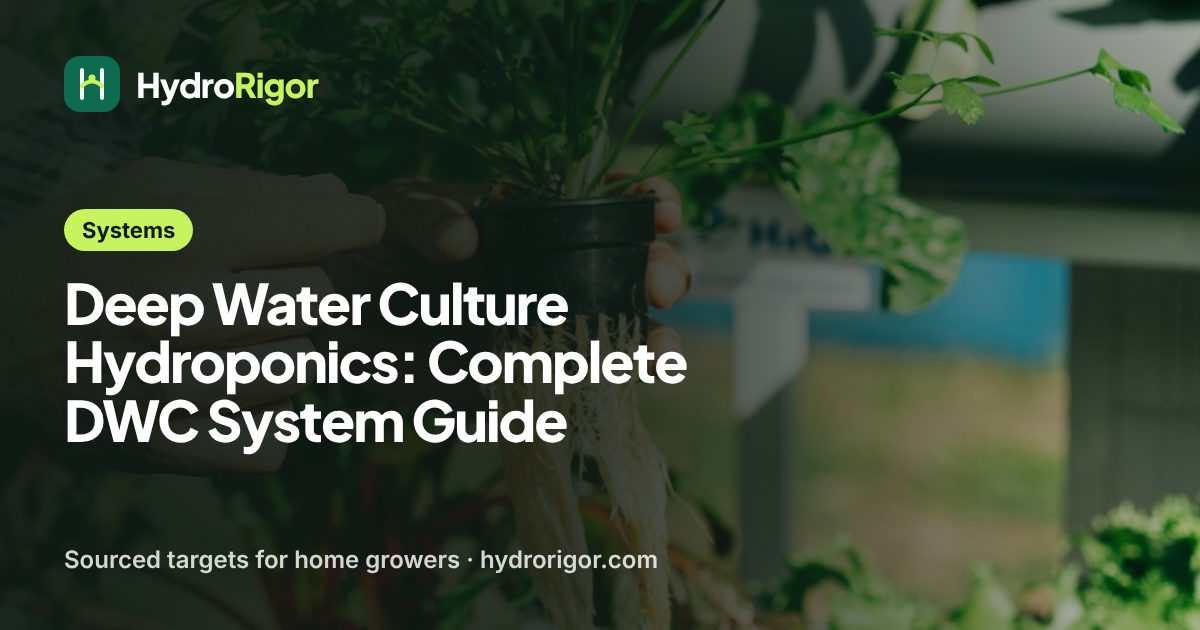
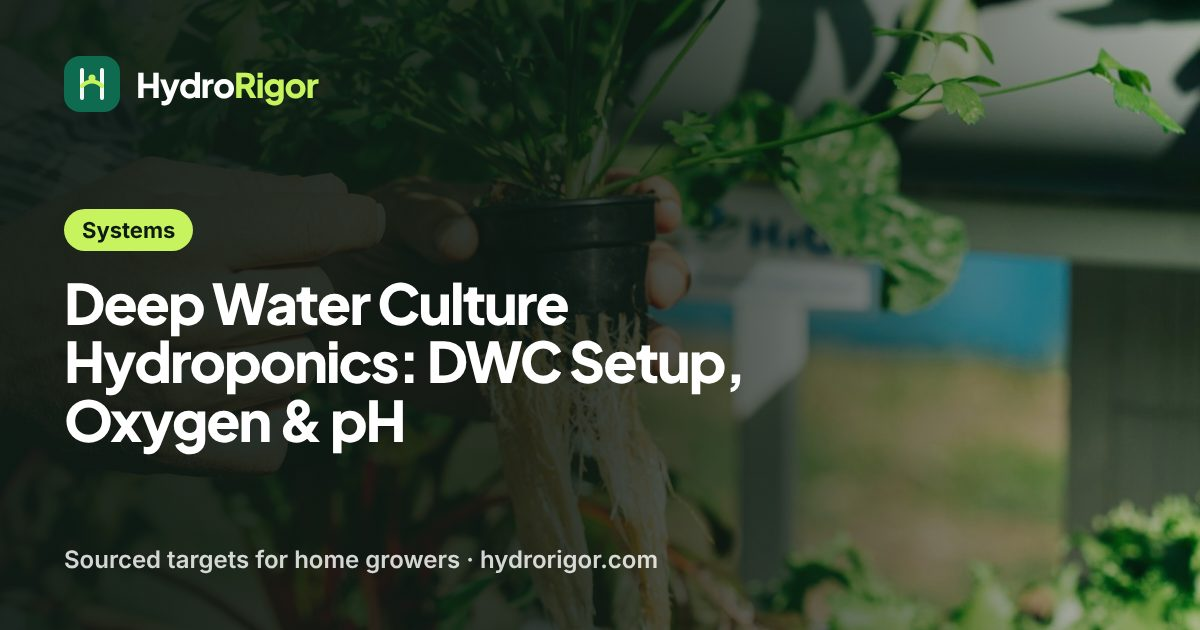
Rebuild the deep water culture hydroponics guide
- New title "Deep Water Culture Hydroponics: DWC Setup, Oxygen & pH" and
  answer-first description; KeyTargets (oxygen 7–10 ppm, solution 65–80 °F,
  pH 5.5–6.2, lettuce EC 1.2–1.8 mS/cm).
- Quick-answer table, how DWC works (raft vs bucket), crop fit, parts list,
  step-by-step setup, weekly routine, light and room temperature, root rot,
  troubleshooting, when DWC is the wrong choice, and FAQ.
- Two original diagrams: labelled DWC tank cross-section; lettuce crop timeline.
- Ten registered sources (Oregon State EM 9455, Virginia Tech SPES-466,
  UF/IFAS HS1422 and Volusia bucket, Kentucky CCD-CP-63, Illinois, Cornell,
  Oklahoma State HLA-6722, Kratky, Missouri); locators updated.
- Share image and pin regenerated; queue item 6 ticked; handoff updated.

Claude-Session: https://claude.ai/code/session_011zSWQuLpvTDkuSZcWCHeDC

Changed region(s): [[0.0308, 0.5429, 0.6167, 0.7238]]

diff --git a/src/data/m06-content.ts b/src/data/m06-content.ts
@@ -21,7 +21,7 @@ const items = [
   [1, 'articles', 'systems', 'Indoor Hydroponic Systems for Home: How to Choose and Set Up', 'indoor-hydroponic-systems-for-home', 'commercial research', 'indoor hydroponic system', 'VERIFIED_2026-09-12', 2900, 33, ['mu-hydroponic-farming', 'uga-home-hydroponics', 'unh-home-hydroponics'], []],
   [2, 'articles', 'best', 'Best Hydroponic Systems for Beginners: What Actually Matters', 'hydroponic-systems-for-beginners', 'commercial research', 'best hydroponic system for beginners', 'METRIC_NOT_REVERIFIED', undefined, undefined, ['mu-hydroponic-farming', 'uga-home-hydroponics'], []],
   [3, 'articles', 'best', 'Indoor Hydroponic System Kits: What to Buy and What to Skip', 'indoor-hydroponic-system-kits', 'transactional research', 'indoor hydroponic system kit', 'METRIC_NOT_REVERIFIED', undefined, undefined, ['uga-home-hydroponics', 'unh-home-hydroponics'], []],
-  [4, 'articles', 'systems', 'Deep Water Culture Hydroponics: Complete DWC System Guide', 'deep-water-culture-hydroponics', 'transactional research', 'hydroponic system deep water culture', 'METRIC_NOT_REVERIFIED', undefined, undefined, ['mu-hydroponic-farming', 'unh-home-hydroponics'], ['/tools/ph-ec-targets/']],
+  [4, 'articles', 'systems', 'Deep Water Culture Hydroponics: DWC Setup, Oxygen & pH', 'deep-water-culture-hydroponics', 'transactional research', 'hydroponic system deep water culture', 'METRIC_NOT_REVERIFIED', undefined, undefined, ['osu-hydro-hints-dwc', 'vt-system-crop-comparisons', 'ifas-lettuce-small-systems', 'uky-hydroponic-lettuce', 'illinois-hydroponics-at-home', 'cornell-cea-lettuce-handbook', 'ifas-volusia-dwc-bucket', 'osu-ph-ec-guide', 'kratky-noncirculating-lettuce', 'mu-hydroponic-farming'], ['/tools/ph-ec-targets/', '/tools/nutrient-mixing-calculator/']],
   [5, 'articles', 'systems', 'DIY Hydroponic System for Beginners: 3 Builds, Step by Step', 'diy-hydroponic-system-for-beginners', 'informational', 'do it yourself hydroponic system', 'METRIC_NOT_REVERIFIED', undefined, undefined, ['ifas-kratky-set-and-forget', 'kratky-noncirculating-lettuce', 'illinois-hydroponics-at-home', 'ifas-volusia-dwc-bucket', 'osu-hydro-hints-dwc', 'osu-hydro-hints-buckets', 'osu-hydro-hints-nft', 'vt-system-crop-comparisons', 'okstate-hydroponics-hla6442'], ['/tools/nutrient-mixing-calculator/', '/tools/ph-ec-targets/']],
   [6, 'articles', 'crops', 'Hydroponic Strawberries: pH, EC, Light & Variety Guide', 'hydroponic-strawberries', 'informational', 'hydroponic strawberries', 'VERIFIED_2026-09-12', 8100, 14, ['ua-strawberry-irrigation', 'ua-strawberry-environment', 'ua-strawberry-lighting', 'cornell-indoor-strawberry-basics', 'ua-ceac-berries-cea', 'cornell-strawberry-runners', 'umn-day-neutral-strawberries', 'umn-strawberry-plant-growth', 'illinois-strawberry-observations', 'mu-hydroponic-farming'], ['/tools/ph-ec-targets/']],
   [7, 'articles', 'crops', 'NFT Hydroponic Strawberries: Setup, Flow and Plant Care', 'nft-hydroponic-strawberries', 'informational', 'nft hydroponic strawberries', 'VERIFIED_2026-09-12', 390, 15, ['mu-hydroponic-farming', 'vt-nft-systems', 'illinois-strawberry-observations'], ['/tools/ph-ec-targets/']],

diff --git a/src/data/editorial-sources/m06.ts b/src/data/editorial-sources/m06.ts
@@ -16,7 +16,7 @@ export const m06EditorialSources = [
     url: 'https://extension.missouri.edu/publications/g6986',
     accessedDate: '2026-09-12',
     sourceType: 'university-extension',
-    locator: 'Types of hydroponic systems; crop fit; advantages and disadvantages',
+    locator: 'Types of hydroponic systems; crop fit; advantages and disadvantages; DWC (floating raft) is among the simpler systems to build and plants keep root contact with water if a pump stops',
   },
   {
     id: 'mu-nutrient-solutions',
@@ -124,7 +124,7 @@ export const m06EditorialSources = [
     url: 'https://ccd.uky.edu/sites/default/files/2026-02/ccd-cp-63_hydrolettuce-updated_accessible.pdf',
     accessedDate: '2026-11-03',
     sourceType: 'university-extension',
-    locator: 'Lettuce pH 5.5-6.0, EC about 1.5 (1.0 seedlings), DLI 12-17, PPFD, air temperature, humidity, dissolved oxygen, timeline, spacing, tipburn and bolting',
+    locator: 'Lettuce pH 5.5-6.0, EC about 1.5 (1.0 seedlings), DLI 12-17, PPFD, air temperature (days up to 75 °F, nights up to 65 °F), humidity, dissolved oxygen 6-8 ppm in DWC, timeline (germination about 3 days, transplant 14-21 days after seeding at 3-4 true leaves, harvest 21-35 days after transplanting), spacing (raft at least 12 in deep, 3-4 plants per sq ft), top up every few days and replace every 3-4 weeks, tipburn and bolting',
   },
   {
     id: 'kratky-noncirculating-lettuce',
@@ -142,7 +142,7 @@ export const m06EditorialSources = [
     url: 'https://cpb-us-e1.wpmucdn.com/blogs.cornell.edu/dist/8/8824/files/2019/06/Cornell-CEA-Lettuce-Handbook-.pdf',
     accessedDate: '2026-11-05',
     sourceType: 'university-extension',
-    locator: 'Section 1.1 (humidity covers needed for bare, not pelleted, seed; one seed per 1-inch rockwool plug); Chapter 4 Day 0-3 (20 °C germination, 50 then 250 µmol/m²/s, germination percentage check on Day 3, transplant Day 21, harvest Day 35)',
+    locator: 'Section 1.1 (humidity covers needed for bare, not pelleted, seed; one seed per 1-inch rockwool plug); Chapter 4 Day 0-3 (20 °C germination, 50 then 250 µmol/m²/s, germination percentage check on Day 3, transplant Day 21, harvest Day 35); pond (deep-flow raft) production system',
   },
   {
     id: 'egro-lettuce-tipburn-2023',

diff --git a/.agent/state/CURRENT_HANDOFF.md b/.agent/state/CURRENT_HANDOFF.md
@@ -1,6 +1,6 @@
 # Current Handoff
 
-Updated: 2026-11-06
+Updated: 2026-11-07
 
 ## State
 
@@ -59,6 +59,7 @@ Updated: 2026-11-06
 Guides published by automated runs under `HydroRigor Editorial`. When Najeeb has read one
 and approves, switch its byline to `Najeeb`.
 
+- `/systems/deep-water-culture-hydroponics/` — "Deep Water Culture Hydroponics: DWC Setup, Oxygen & pH" (2026-11-07). Sources: Oregon State EM 9455, Virginia Tech SPES-466, UF/IFAS HS1422 and Volusia DWC bucket, University of Kentucky CCD-CP-63, University of Illinois Extension, Cornell CEA lettuce handbook, Oklahoma State HLA-6722, Kratky Acta Hort 843, Missouri G6986. Note: the sources give three dissolved oxygen targets (5, 6–8 and 7–10 ppm); the page shows all three and recommends Virginia Tech's 7–10 ppm. Web fetching was unavailable in this unattended run, so every figure comes from sources already registered and used on other guides; no new sources were added.
 - `/nutrients-water/hydroponic-nutrients-for-tomatoes/` — "Hydroponic Nutrients for Tomatoes: EC, pH & Feeding by Stage" (2026-11-06). Sources: UF/IFAS HS796 (Hochmuth), University of Tennessee W 844-C, Ohio State HYG-1437, Penn State nutrient programs, Oklahoma State HLA-6722, Kentucky CCD-TA-01, Mississippi State tomato FAQs (pH, fertilizer, blossom-end rot), UF/IFAS Volusia DWC bucket. Note: the sources give different EC and pH ranges; the page shows them all and recommends the Tennessee EC (2.0–3.0 mS/cm) and UF/IFAS pH (5.8–6.2).
 - `/systems/diy-hydroponic-system-for-beginners/` — "DIY Hydroponic System for Beginners: 3 Builds, Step by Step" (2026-11-06). Sources: UF/IFAS HS1488 and Volusia County DWC bucket, Kratky Acta Hort 843, University of Illinois Extension "Hydroponics at Home", Oregon State EM 9455/9456/9457, Virginia Tech SPES-466, Oklahoma State HLA-6442. Note: no source gives a home timer schedule for Dutch buckets; the page says so.
 - `/best/hydroponic-system-for-home-growers/` — "Best Hydroponic System for Home Growers: DWC, NFT or Drip?" (2026-11-06). Sources: UF/IFAS HS1488 (Kratky) and HS1422, Kratky Acta Hort 843, Virginia Tech SPES-466 trial, Oregon State Hydro hints EM 9453/9455/9456/9457/9458, Oklahoma State HLA-6442. Note: Virginia Tech yields are one trial at one site; the page says so.

diff --git a/.agent/state/CURRENT_MILESTONE.md b/.agent/state/CURRENT_MILESTONE.md
@@ -56,7 +56,7 @@ mixing in one new guide for every two or three rebuilds.
        tomatoes" (position 66); "hydroponic nutrients tomatoes" 140 / 20.
 5. [x] `/systems/diy-hydroponic-system-for-beginners/` — rebuilt 2026-11-06 ("DIY Hydroponic System for Beginners: 3 Builds, Step by Step"). Search Console:
        "diy hydroponics systems" (position 81) and "hydroponics diy system" (position 99).
-6. [ ] `/systems/deep-water-culture-hydroponics/` — rebuild. "hydroponic system deep water culture"
+6. [x] `/systems/deep-water-culture-hydroponics/` — rebuilt 2026-11-07 ("Deep Water Culture Hydroponics: DWC Setup, Oxygen & pH"). "hydroponic system deep water culture"
        4,400 / 25; "hydroponic system dwc" 2,900 / 28. Search Console: 4 impressions, position 54.
 7. [ ] New guide, plan ID 59 (repurposed): hydroponic towers — "hydroponic tower" 6,600 / 33,
        "hydroponic tower diy" 1,300 / 32. How towers work, crops, light, DIY versus kits;
